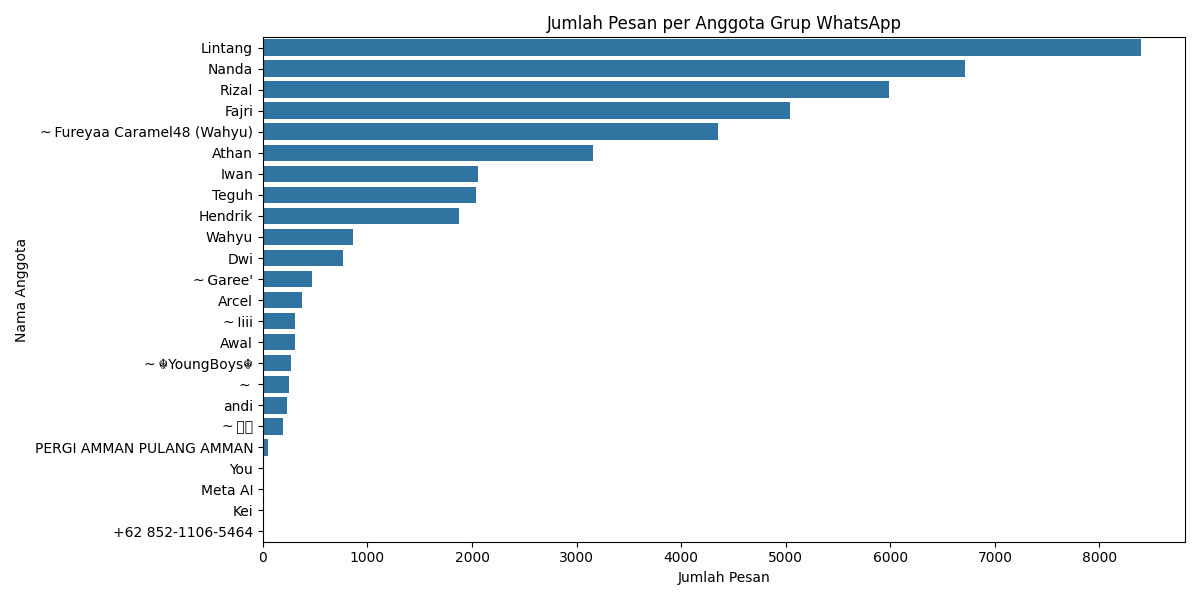
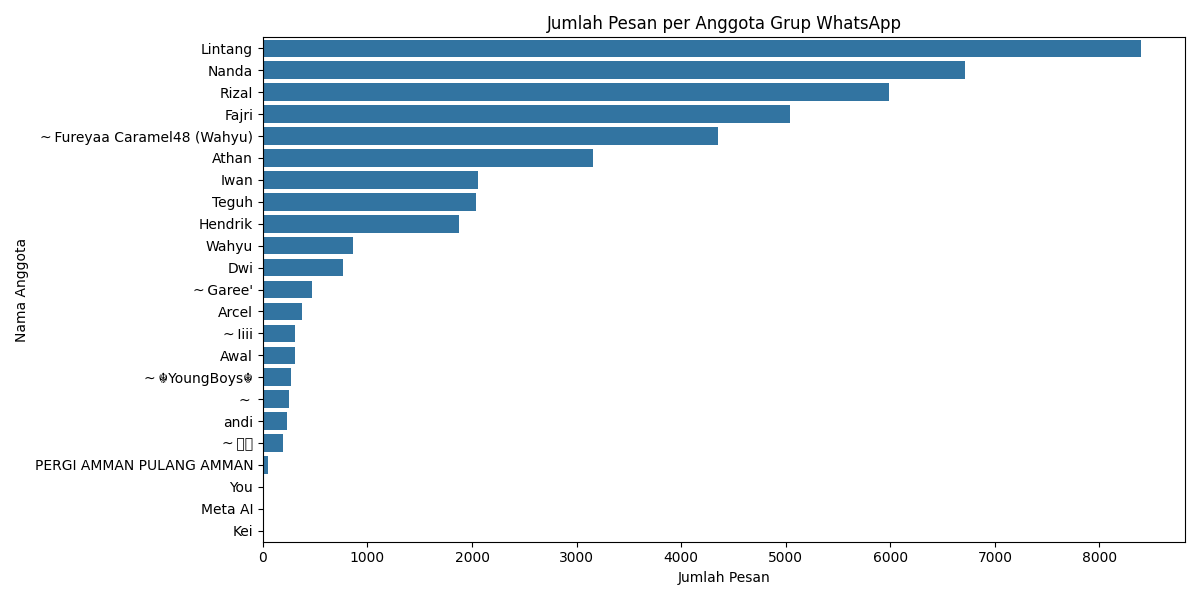
Initial commit: improve some code

Changed region(s): [[0.0308, 0.06, 0.8017, 0.9]]

diff --git a/whatsapp_analysis.py b/whatsapp_analysis.py
@@ -4,6 +4,16 @@ import seaborn as sns
 import re
 from datetime import datetime
 
+def is_phone_number(username: str) -> bool:
+    """
+    Checks if a username contains an Indonesian phone number pattern.
+    This function looks for patterns like '+62' followed by digits,
+    which is common in Indonesian phone numbers.
+    """
+    # Pattern to match Indonesian phone numbers
+    phone_pattern = r'\+62\s*\d'
+    return bool(re.search(phone_pattern, username))
+
 def process_whatsapp_chat(file_path):
     try:
         # read chat file
@@ -11,40 +21,55 @@ def process_whatsapp_chat(file_path):
             chat_lines = file.readlines()
         
         messages = []
-        pattern = r'\[(\d{2}/\d{2}/\d{2}), (\d{2}\.\d{2}\.\d{2})\] ([^:]+): (.+)'
+        # Updated pattern to handle WhatsApp date/time format
+        pattern = r'\[(\d{2}/\d{1,2}/\d{2}), (\d{2}\.\d{2}\.\d{2})\] ([^:]+): (.+)'
         
         print("Membaca file chat...")
         print(f"Total baris yang dibaca: {len(chat_lines)}")
         
+        filtered_numbers = set()  # To keep track of filtered phone numbers
+        
         for line in chat_lines:
-            # Clean character unicode(Sticker)
+            # Clean character unicode
             clean_line = line.replace('[U+200E]', '').strip()
             match = re.match(pattern, clean_line)
             
             if match:
                 date, time, user, message = match.groups()
-                # Filter chat system
-                if not any(keyword in message for keyword in 
+                user = user.strip()
+                message = message.strip()
+                
+                # Check if the user appears to be a phone number
+                if is_phone_number(user):
+                    filtered_numbers.add(user)
+                    continue
+                
+                # Only add non-system messages and non-empty messages
+                if user and message and not any(keyword in message for keyword in 
                          ['was added', 'sticker omitted', 'Messages and calls are end-to-end encrypted']):
                     messages.append({
                         'date': date,
                         'time': time,
-                        'user': user.strip(),
-                        'message': message.strip()
+                        'user': user,
+                        'message': message
                     })
         
-        print(f"Total pesan yang berhasil diproses: {len(messages)}")
-        # Debug: Show some first chat
-        if messages:
-            print("\nContoh beberapa pesan pertama:")
-            for msg in messages[:3]:
-                print(msg)
-        else:
-            print("\nTidak ada pesan yang berhasil diproses. Beberapa baris pertama dari file:")
-            for line in chat_lines[:5]:
-                print(f"Baris mentah: {line.strip()}")
+        # Print debugging information
+        print(f"\nTotal pesan yang berhasil diproses: {len(messages)}")
+        if filtered_numbers:
+            print("\nNomor telepon yang difilter:")
+            for num in filtered_numbers:
+                print(f"- {num}")
         
-        return pd.DataFrame(messages) if messages else None
+        # Create DataFrame and clean data
+        df = pd.DataFrame(messages) if messages else None
+        if df is not None:
+            # Remove any remaining rows with empty users or messages
+            df = df.dropna(subset=['user', 'message'])
+            # Remove rows where user is just whitespace
+            df = df[df['user'].str.strip().astype(bool)]
+            
+        return df
     
     except Exception as e:
         print(f"Error detail: {str(e)}")
@@ -56,9 +81,14 @@ def analyze_chat(df):
         return
     
     try:
-        # Count user chats
+        # Count user chats and filter out users with zero messages
         message_counts = df['user'].value_counts()
+        message_counts = message_counts[message_counts > 0]
         
+        if message_counts.empty:
+            print("Tidak ada data pesan yang valid untuk divisualisasikan")
+            return
+            
         # Create visualization
         plt.figure(figsize=(12, 6))
         sns.barplot(x=message_counts.values, y=message_counts.index)
